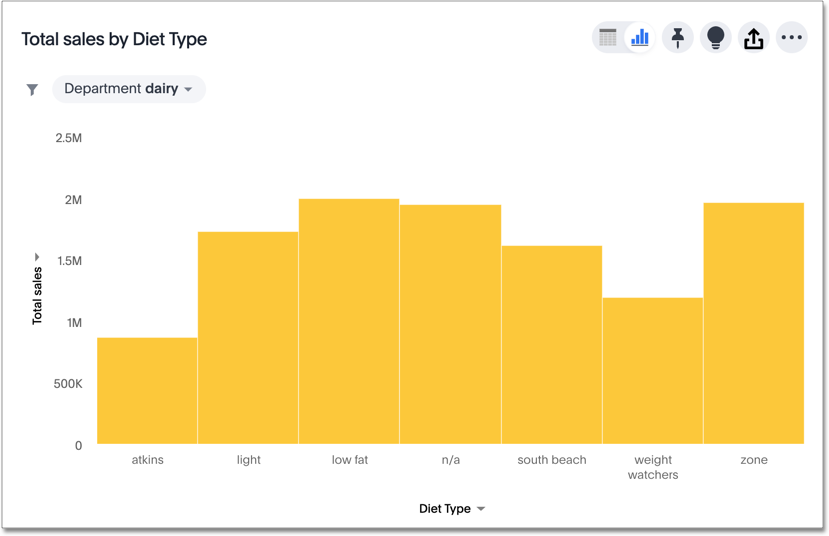
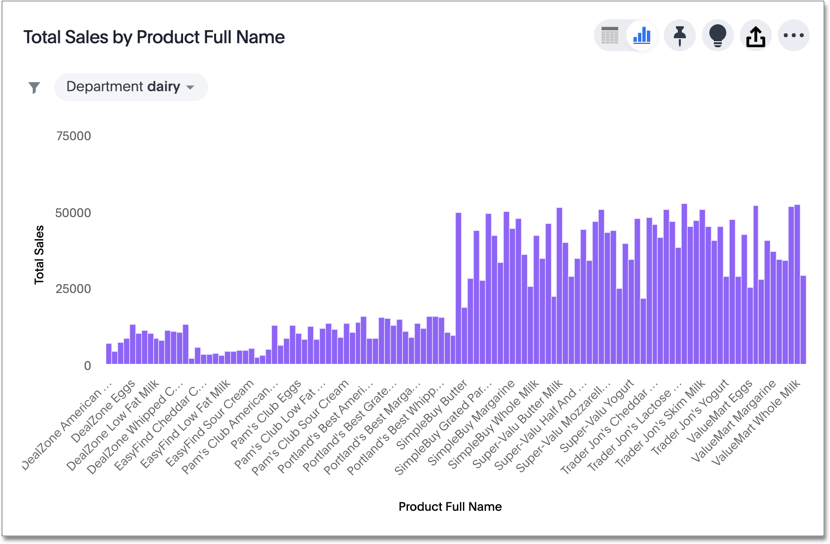
SCAL-52821 started adding vishal's drill down edits

diff --git a/_complex-search/drill-down.md b/_complex-search/drill-down.md
@@ -1,32 +1,33 @@
 ---
 title: [Drill down into your data]
-last_updated: 1/16/2020
+last_updated: 1/21/2020
 summary: "Drill down into the Answers ThoughtSpot delivers to gain deeper insights into the many layers of your data."
 sidebar: mydoc_sidebar
 permalink: /:collection/:path.html
 ---
-When you drill down, you can see more information about the columns within
-your search. Move easily from a more general view of your information to a more specific representation at a click.
+When you drill down, you can see more information about the data within your search. You can drill down into a datapoint to get a finer grained view of that datapoint and the data behind it. Move easily from a general view of your information to a more specific representation of the data behind a datapoint at a click. For example, in a **revenue by department** search, you may notice that your **clothing** department has the highest revenue. You can drill down on **clothing** by **product name** to find out which products contribute to those high sales. There is no limit to how deep you can drill down.
 
-You can drill down in both tables and chart visualizations, either from an Answer or from an Answer inside a Pinboard. You can also use the [Answer Explorer]({{ site.baseurl }}/end-user/pinboards/answer-explorer.html) feature and get its AI-guided exploration of an answer within a Pinboard.
+You can drill down in both tables and chart visualizations, on both [standalone Answers]({{ site.baseurl }}#answer-drilldown) and on [Answers within Pinboards]({{ site.baseurl }}#pinboard-drilldown). When you drill down on Answers within Pinboards, you can either drill down directly, or drill down [using the Answer Explorer view]({{ site.baseurl }}#explorer-drilldown). [Answer Explorer]({{ site.baseurl }}/end-user/pinboards/answer-explorer.html) provides a flexible, AI-guided exploration of an Answer within a Pinboard.
 
+{: id="answer-drilldown"}
 ## Drill down on an Answer
 
 1. Right-click the chart object (such as a column on a bar chart, or a section of a pie chart) or data point of interest in your answer.
 
 2. Select **Drill down**.<br>
 This limits the data you are exploring to that particular data point or chart object.
-    ![Drill down from a data point]({{ site.baseurl }}/images/drilldown-table.png "Drill down from a data point")
-    <!--{% include image.html file="drilldown-table.png" title="Drill down from a data point" alt="You can drill down from just one data point, in either table or visualization mode." caption="Drill down from a data point" %}-->
-    ![Drill down from a chart object]({{ site.baseurl }}/images/drilldown-chart.png "Drill down from a chart object")
-    <!--{% include image.html file="drilldown-chart.png" title="Drill down from a chart object" alt="You can drill down from a column in your data, in either table or visualization mode." caption="Drill down from a chart object" %}-->
+    ![Drill down from a data point]({{ site.baseurl }}/images/drilldown-table.png "Drill down from a data point in a table")
+    <!--{% include image.html file="drilldown-table.png" title="Drill down from a data point in a table" alt="You can drill down from just one data point, in either table or visualization mode." caption="Drill down from a data point in a table" %}-->
+    ![Drill down from a chart object]({{ site.baseurl }}/images/drilldown-chart.png "Drill down from a data point in a chart")
+    <!--{% include image.html file="drilldown-chart.png" title="Drill down from a data point in a chart" alt="You can drill down from a column in your data, in either table or visualization mode." caption="Drill down from a data point in a chart" %}-->
 
 2. A list of dimensions appears. You can only drill down on dimensions, not on measures. Click any of the options to gain deeper insight into your data.
 
     ![Drill down dimensions]({{ site.baseurl }}/images/drilldown-diettype.png "Drill down dimensions")
     <!--{% include image.html file="drilldown-diettype.png" title="Drill down dimensions" alt="A list of dimensions, or column names, that you can drill down on appears. Select one to drill down." caption="Drill down dimensions" %}-->
 
-    For example, if you choose to drill down on *dairy* by *diet type*, the following chart appears, showing dairy sales by diet type:
+    For example, if you choose to drill down on *dairy* by *product full name*, the following chart appears, showing dairy sales by product:
+    
     ![Dairy sales by diet type]({{ site.baseurl }}/images/drilldown-example.png "Dairy sales by diet type")
     <!--{% include image.html file="drilldown-example.png" title="Dairy sales by diet type" alt="Drill down on the dairy column and select diet type to see a chart showing dairy sales by diet type" caption="Dairy sales by diet type" %}-->
 
@@ -34,12 +35,14 @@ This limits the data you are exploring to that particular data point or chart ob
 
     To change the Answer to a previous version, you can remove the corresponding filter.
 
+{: id="pinboard-drilldown"}
 ## Drill down within a pinboard
 When you drill down on an Answer within a pinboard, it works similarly to drilling down on the Answer itself. You cannot go back one step at a time, but you can reset the Answer when you finish drilling down. To return to the original answer, click the blue reset icon ![]({{ site.baseurl }}/images/icon-drill-down-20px.png){: .inline} at the bottom right corner of the Answer.
 
 ![Reset your Answer]({{ site.baseurl }}/images/drilldown-pinboard.png "Reset your Answer")
 <!--{% include image.html file="drilldown-pinboard.png" title="Reset your Answer" alt="Click the blue reset icon at the bottom right corner of the Answer to return to the original Answer." caption="Reset your Answer" %}-->
 
+{: id="explorer-drilldown"}
 ## Drill down with Answer Explorer
 You can also drill down using the [Answer Explorer]({{ site.baseurl }}/end-user/pinboards/answer-explorer.html) feature. Answer Explorer provides AI-guided exploration of an answer within a pinboard. When you drill down normally, you cannot go back one step at a time to see an earlier version of your visualization. You have to delete filters from the search bar, or start your search again. If you drill down with Answer Explorer, you can use the *go back one step* feature.
 
